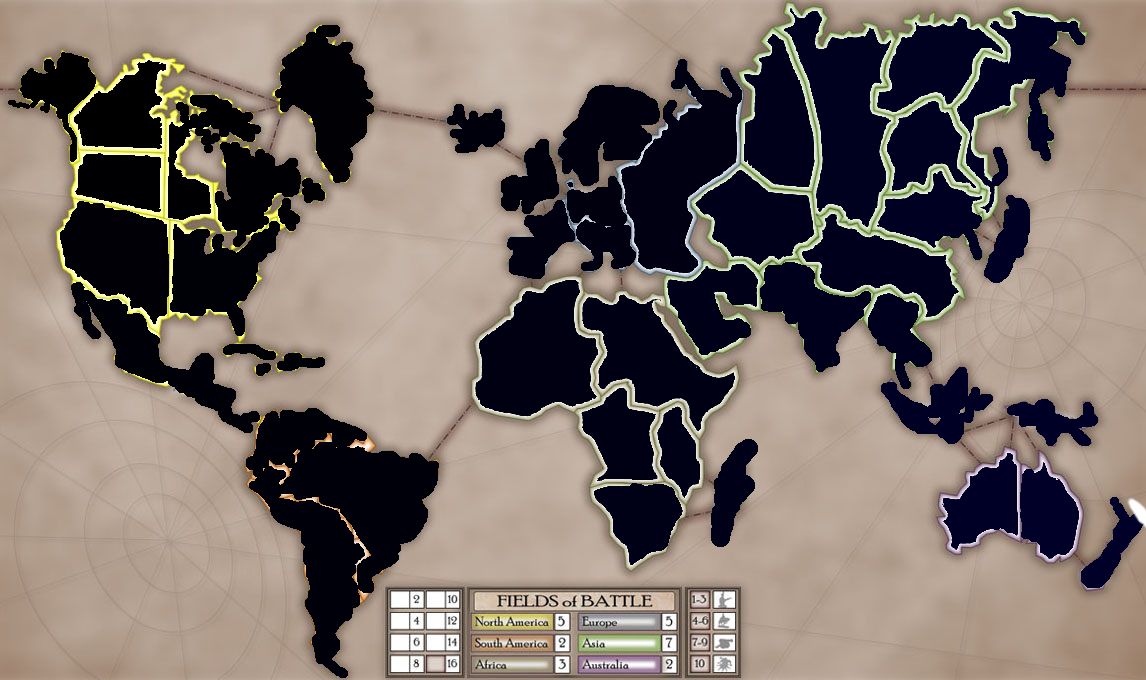
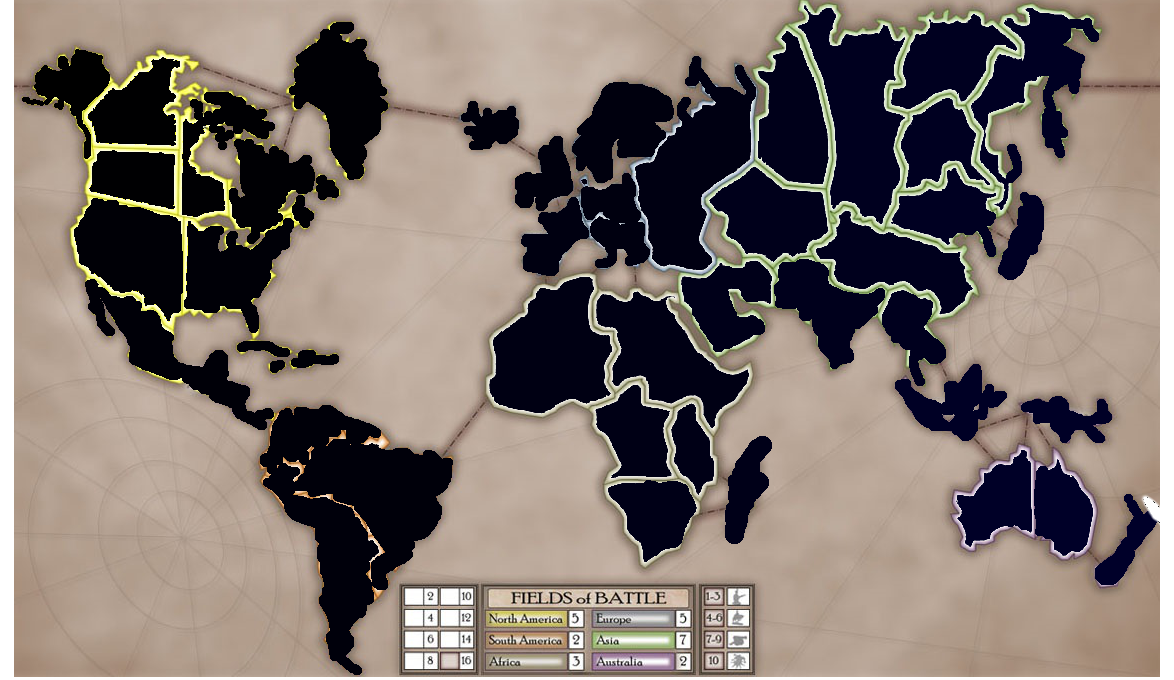
Shit ton of changes.
Modified map.png to make it more compatible with the GuiFrame. Click
processing is much simpler. No more click source restrictions are
necessary. Removed a bunch of dead code. Simplified engine processes.
Did a bunch of refractoring. Removed unnecessary messageLog instances.

diff --git a/src/Engine.java b/src/Engine.java
@@ -1,7 +1,6 @@
 import java.awt.Color;
 import java.awt.Dimension;
 import java.awt.Insets;
-import java.awt.Point;
 import java.awt.event.ActionEvent;
 import java.awt.event.ActionListener;
 import java.awt.event.MouseAdapter;
@@ -35,15 +34,10 @@ public class Engine {
 	public int gameState;
 	public Army turn;
 	private Country donor, reciever;
-	public static final int PRE_GAME = 0, REINFORCE = 1, RECRUIT = 2, ATTACK_A = 3, 
-			ATTACK_B = 4, OCCUPY = 5, FORTIFY_A = 6, FORTIFY_B = 7, FORTIFY_C = 8, END_GAME = 9;
+	public static final int PRE_GAME = 0, REINFORCE = 1, RECRUIT = 2, ATTACK_A = 3, ATTACK_B = 4, OCCUPY = 5, FORTIFY_A = 6, FORTIFY_B = 7, FORTIFY_C = 8, END_GAME = 9;
 	private ArrayList<Integer> riskValues = new ArrayList<Integer>();
-	
 	private GuiFrame gameGui;
-	private MessageLogFrame log;
 	private GameBoardPanel gameBoard;
-	private BufferedImage countryMap; //Stores map with corresponding country images
-	private String phaseCompleteDir;
 	private ImageIcon phaseCompleteImage;
 	private JButton phaseComplete;
 	protected ColorTurnIndicator turnIndicator;
@@ -66,7 +60,6 @@ public class Engine {
 		neighborFile = mapNeighbors;
 		continentFile = mapContinents;
 		gameGui = gui;
-		log = gui.messages;
 		countries = new ArrayList<Country>();
 		continents = new ArrayList<Continent>();
 		setupGame();
@@ -100,27 +93,18 @@ public class Engine {
 		donor = countries.get(0);
 		reciever = countries.get(0);
 		gameState = PRE_GAME;
-		countryMap = ImageIO.read(new File("resources/map.png"));
 		setUpGameBoardListeners();
 		setupMainMenuListener();
 	}
 	
-	public void restart() throws IOException, InterruptedException {
-		setupGame();
-		start();
-	}
-	
-	public void setUpGameBoardListeners() {
+	public void setUpGameBoardListeners() throws IOException {
+		final BufferedImage map = ImageIO.read(new File("resources/map.png"));
 		gameBoard.addMouseListener(
 			new MouseAdapter() {
 				public void mouseReleased(MouseEvent e) {
-					//invalid click color index = 1000
 					int colorIndex = 1000;
-					// Debug code
-					//System.out.println(e.getX() + " " + e.getY());
-					if (e.getX() < 1160 && e.getX() > 14 && e.getY() >= 0 && e.getY() < 670)
-						colorIndex = new Color((((BufferedImage) countryMap).getRGB(e.getX() - 14, e.getY()))).getBlue();
-					processColor(colorIndex, e.getPoint());
+					colorIndex = new Color(map.getRGB(e.getX(), e.getY())).getBlue();
+					processColor(colorIndex);
 				}
 			}
 		);
@@ -128,8 +112,7 @@ public class Engine {
 	
 	// Set ups the turn indicator
 	public void setupGameCurrentPlayer() {
-		phaseCompleteDir = "resources/turndone.png";
-		phaseCompleteImage = new ImageIcon(phaseCompleteDir);
+		phaseCompleteImage = new ImageIcon("resources/turndone.png");
 		phaseComplete = new JButton(phaseCompleteImage);
 		Insets insets = gameBoard.getInsets();
 		phaseComplete.setBounds(insets.left + 46, insets.top + 443, 
@@ -193,7 +176,7 @@ public class Engine {
 	
 	public void initiateGame() {
 		// On user click start: the center panel flips to the main game
-		NumberOfPlayersFrame s = new NumberOfPlayersFrame(gameGui, log);
+		InitiationFrame s = new InitiationFrame(gameGui);
 		s.setLocationRelativeTo(gameGui);
 		s.setVisible(true);
 		
@@ -216,7 +199,7 @@ public class Engine {
 	}
 	
 	// Processes the color clicked and uses information to update countries
-	public void processColor(int blueIndex, Point x)
+	public void processColor(int blueIndex)
 	{
 		if (blueIndex >= 0 && blueIndex < countries.size())
 			try {
@@ -247,7 +230,7 @@ public class Engine {
 	public void buildCountries(Scanner in){
 		int a = Integer.parseInt(in.nextLine());
 		for (int i = 0; i < a; i ++)
-			countries.add(new Country(in.nextLine(), Integer.parseInt(in.nextLine()), Integer.parseInt(in.nextLine()), log));
+			countries.add(new Country(in.nextLine(), Integer.parseInt(in.nextLine()), Integer.parseInt(in.nextLine()), gameGui.messages));
 	}
 	
 	/**
@@ -325,7 +308,7 @@ public class Engine {
 		else if (gameState == FORTIFY_A) fortifyA(c);
 		else if (gameState == FORTIFY_B) fortifyB(c);
 		else if (gameState == FORTIFY_C) fortifyC(c);
-		else if (gameState == END_GAME){log.write("GAME OVER: " + armies.get(0) + "WINS!");}
+		else if (gameState == END_GAME){gameGui.messages.write("GAME OVER: " + armies.get(0) + "WINS!");}
 		for (Country a: countries)
 			a.updateLabel();
 		

diff --git a/src/InitiationFrame.java b/src/InitiationFrame.java
@@ -12,11 +12,10 @@ import java.io.File;
 import java.awt.Color;
 import java.awt.Dimension;
 import java.awt.BorderLayout;
-import java.awt.Frame;
 import java.awt.event.ActionListener;
 import java.awt.event.ActionEvent;
 
-public class NumberOfPlayersFrame extends JDialog{
+public class InitiationFrame extends JDialog{
 	private static final long serialVersionUID = 2278594614920750336L;
 	private Dimension dialogSize;
 	private ArrayList<JLabel> colorLabels;
@@ -24,7 +23,7 @@ public class NumberOfPlayersFrame extends JDialog{
 	private final Color[] COLORS = new Color[]{Color.MAGENTA, Color.blue, Color.green,
 			Color.RED, Color.cyan};
 	private ArrayList<Color> availColors = new ArrayList<Color>();
-	private JComboBox combo;
+	private JComboBox<Integer> combo;
 	private JPanel namePanel;
 	private JPanel comboPanel;
 	private JPanel okayCancelPanel;
@@ -34,9 +33,9 @@ public class NumberOfPlayersFrame extends JDialog{
 	private int currentPlayerNum;
 	public MessageLogFrame log;
 	
-	public NumberOfPlayersFrame(Frame parentFrame, MessageLogFrame messages) {
+	public InitiationFrame(GuiFrame parentFrame) {
 		super(parentFrame);
-		log = messages;
+		log = parentFrame.messages;
 		this.setModal(true);
 		dialogSize = new Dimension(200, 350);
 		this.setTitle("How many players?");
@@ -53,7 +52,7 @@ public class NumberOfPlayersFrame extends JDialog{
 		colorLabels = new ArrayList<JLabel>();
 		
 		Integer[] comboOptions = new Integer[] {2, 3, 4, 5};
-		combo = new JComboBox(comboOptions);
+		combo = new JComboBox<Integer>(comboOptions);
 		combo.setSelectedItem(new Integer(3));
 		comboPanel.add(combo);
 		

diff --git a/src/Army.java b/src/Army.java
@@ -23,7 +23,7 @@ public class Army {
 	}
 	public void addReinforcements(int armies){
 		if (armies == 2) reinforcements += 40;
-		else if (armies == 3) reinforcements += 15;
+		else if (armies == 3) reinforcements += 35;
 		else if (armies == 4) reinforcements += 30;
 		else if (armies == 5) reinforcements += 25;
 	}
